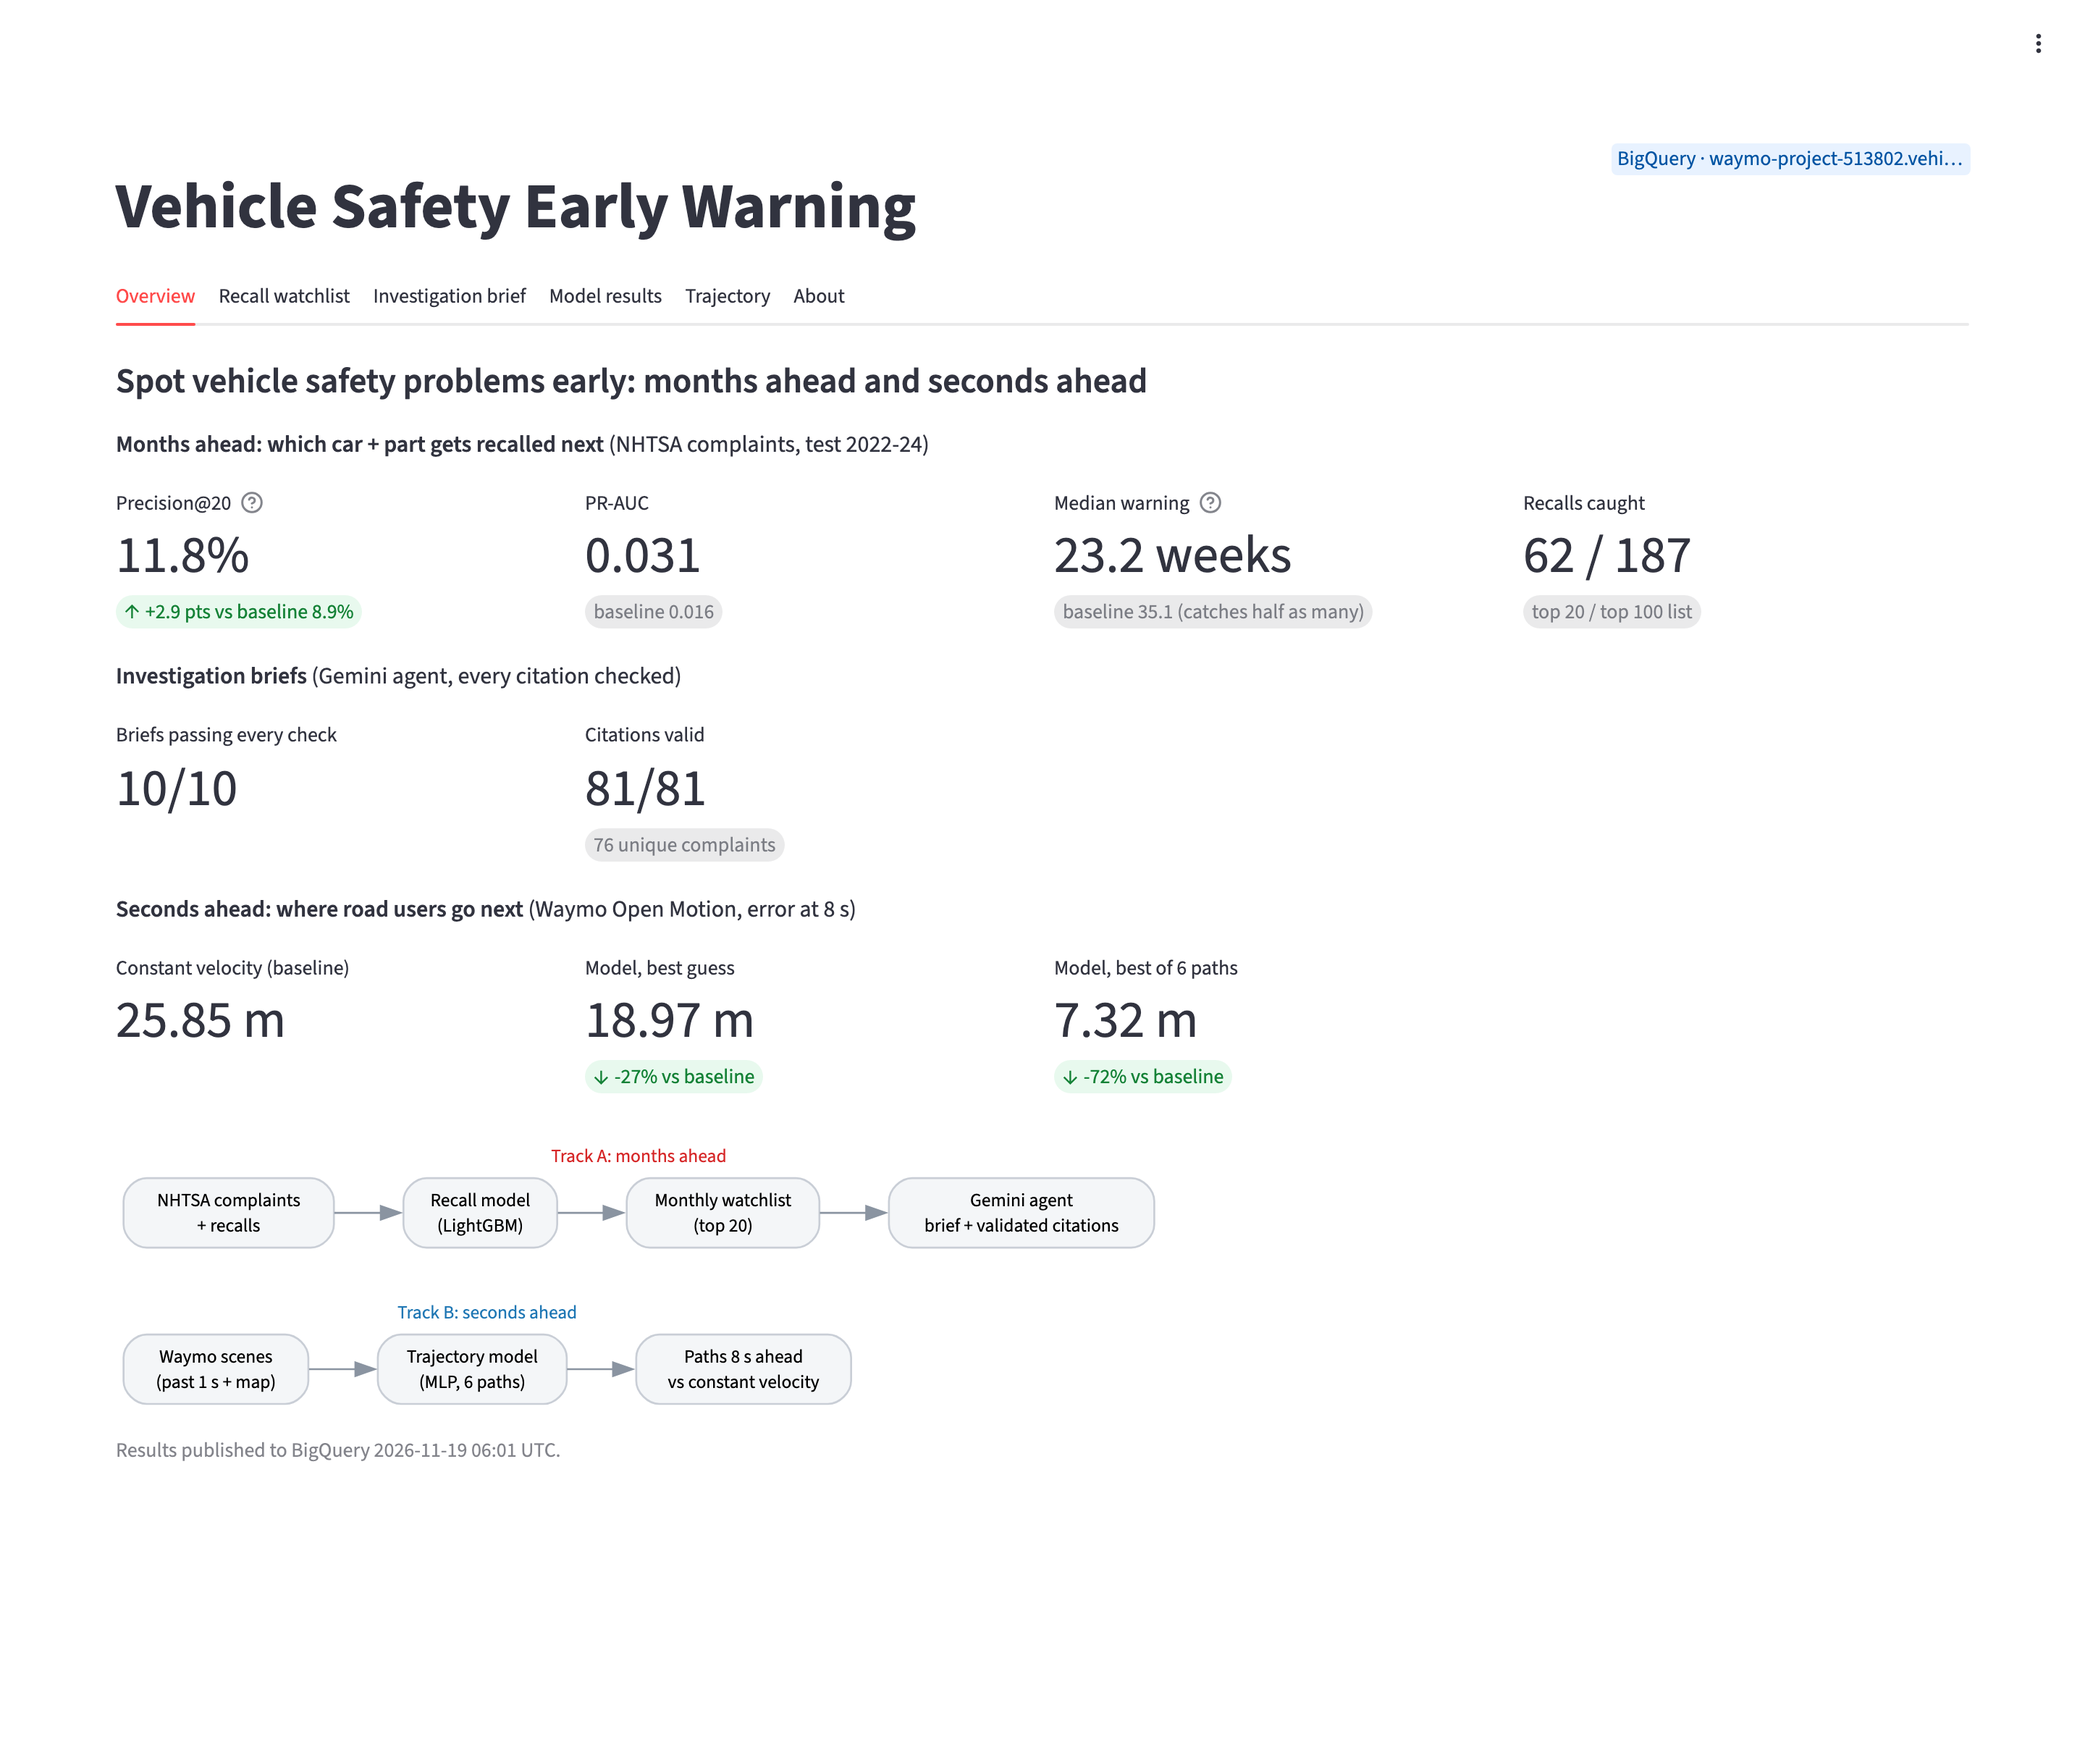
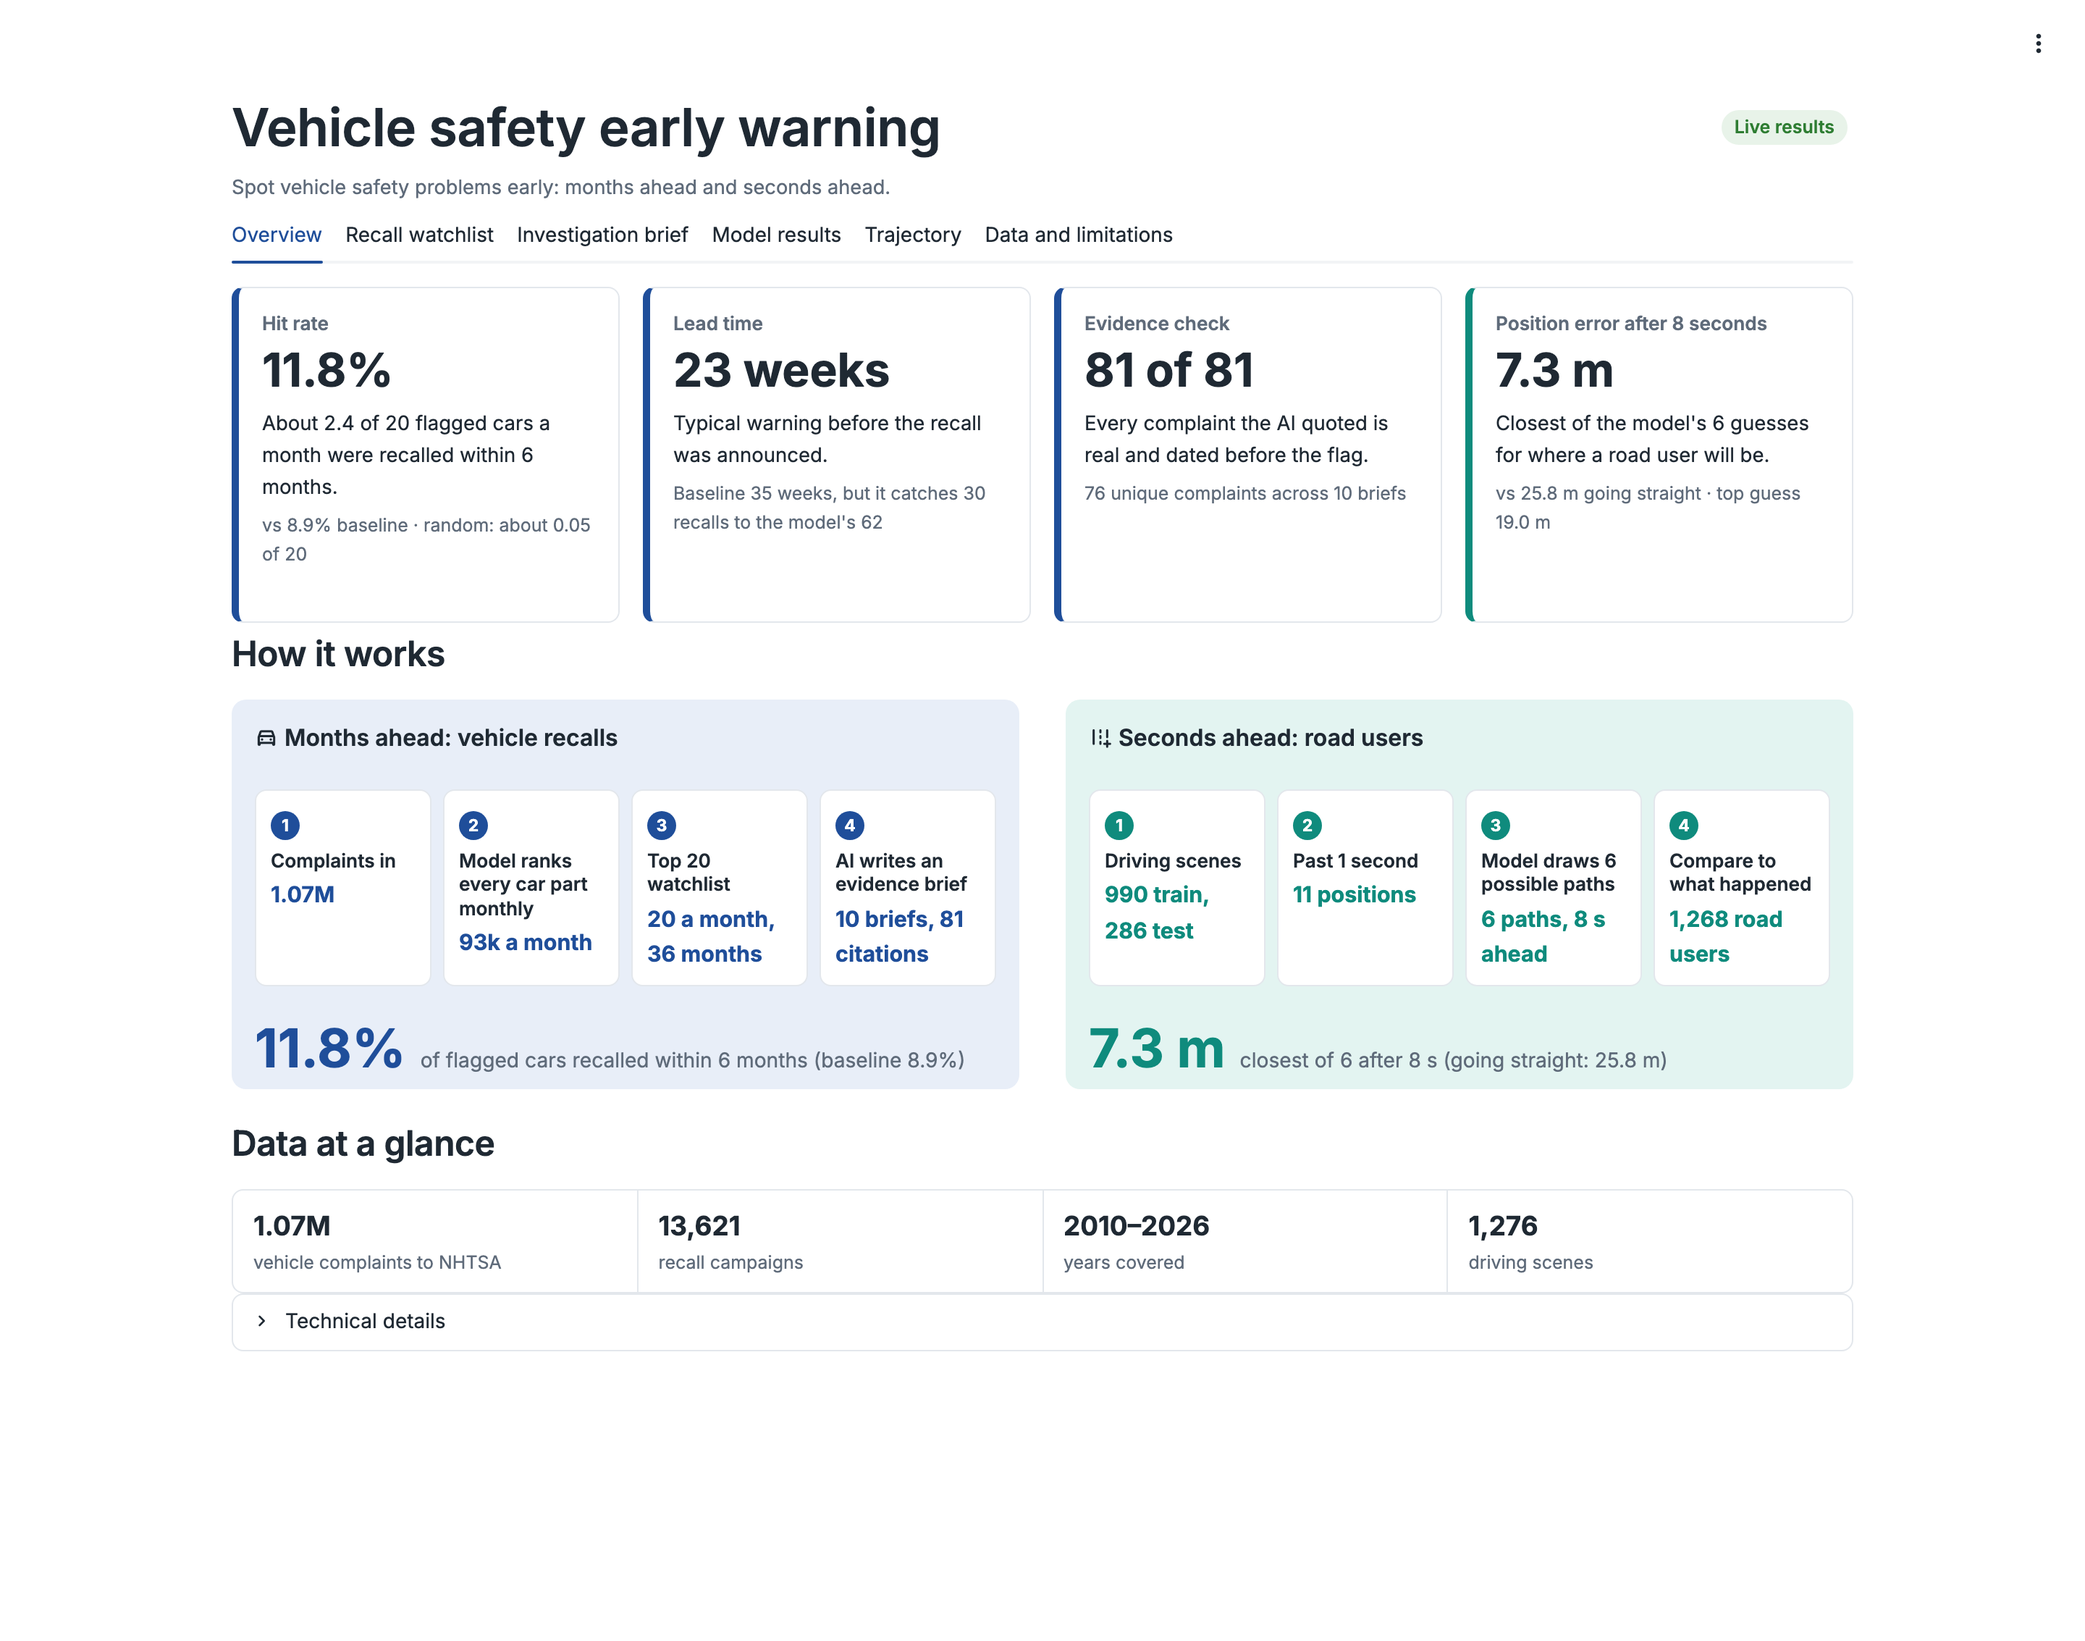
Demo screenshots (6 tabs + 2 detail views) and app README for the new layout

diff --git a/scripts/demo_screenshots.py b/scripts/demo_screenshots.py
@@ -24,7 +24,11 @@ OUT = ROOT / "reports" / "figures"
 CONTENT_HEIGHT_JS = """() => Math.max(...[...document.querySelectorAll(
   '[data-testid="stMain"], [data-testid="stAppViewContainer"], section.main, [data-testid="stMainBlockContainer"]'
 )].map(e => e.scrollHeight), document.body.scrollHeight)"""
-TABS = ["Overview", "Recall watchlist", "Investigation brief", "Model results", "Trajectory", "About"]
+TABS = ["Overview", "Recall watchlist", "Investigation brief", "Model results", "Trajectory",
+        "Data and limitations"]
+# (tab, tile key, file name): tile detail views to capture after the tabs
+DETAILS = [("Model results", "results_hit", "demo_detail_hit_rate"),
+           ("Model results", "results_fair", "demo_detail_grading")]
 
 
 def free_port() -> int:
@@ -43,6 +47,19 @@ def wait_for(url: str, timeout: float = 60) -> None:
         except OSError:
             time.sleep(0.5)
     raise RuntimeError(f"streamlit did not start at {url}")
+
+
+def shoot(page, args, file_name: str) -> None:
+    page.set_viewport_size({"width": args.width, "height": args.height})
+    page.wait_for_timeout(2500)  # charts finish drawing
+    # Streamlit scrolls an inner container, so grow the window to the content height
+    height = page.evaluate(CONTENT_HEIGHT_JS)
+    page.set_viewport_size({"width": args.width, "height": max(args.height, height + 40)})
+    page.mouse.move(2, 2)  # park the mouse so no hover tooltip is captured
+    page.wait_for_timeout(1500)
+    path = OUT / f"{file_name}.png"
+    page.screenshot(path=str(path))
+    print(f"wrote {path.relative_to(ROOT)}")
 
 
 def main() -> int:
@@ -69,16 +86,15 @@ def main() -> int:
             page.goto(url, wait_until="networkidle")
             page.get_by_role("tab", name="Overview").wait_for(timeout=120_000)  # data loaded
             for name in TABS:
-                page.set_viewport_size({"width": args.width, "height": args.height})
                 page.get_by_role("tab", name=name).click()
-                page.wait_for_timeout(2500)  # charts and images finish drawing
-                # Streamlit scrolls an inner container, so grow the window to the content height
-                height = page.evaluate(CONTENT_HEIGHT_JS)
-                page.set_viewport_size({"width": args.width, "height": max(args.height, height + 40)})
-                page.wait_for_timeout(1500)
-                path = OUT / f"demo_{name.lower().replace(' ', '_')}.png"
-                page.screenshot(path=str(path))
-                print(f"wrote {path.relative_to(ROOT)}")
+                shoot(page, args, f"demo_{name.lower().replace(' ', '_')}")
+            for tab, key, file_name in DETAILS:
+                page.get_by_role("tab", name=tab).click()
+                page.wait_for_timeout(1000)
+                page.locator(f".st-key-open_{key} button").click()
+                shoot(page, args, file_name)
+                page.locator(f".st-key-back_{key.split('_')[0]} button").click()
+                page.wait_for_timeout(1000)
             browser.close()
     finally:
         server.terminate()

diff --git a/app/README.md b/app/README.md
@@ -9,19 +9,22 @@ Reads the published results from BigQuery (`src/bq_reader.py`, one-time setup in
 [CONTRACTS.md](../CONTRACTS.md#reading-from-bigquery)). If BigQuery isn't reachable or you're not
 logged in, it falls back to local files (DuckDB read-only, `reports/`, the Waymo demo examples) and
 shows a **local data** badge. A table that is in neither place shows a notice in its tab; the rest
-still works. Everything loads once (in parallel) and is cached; **Reload data** in About refreshes.
+still works. Everything loads once (in parallel) and is cached; **Reload data** under "Technical details" refreshes.
 No Gemini calls: the briefs were written and validated beforehand. Every number comes from the data.
 
 | Tab | Shows | Data |
 | --- | --- | --- |
-| Overview | Headline cards for both tracks + two-track diagram | `v_headline_metrics`, `recall_metrics`, `agent_citations`, `waymo_results` |
-| Recall watchlist | Top 20 per month (2022-01 to 2024-12) with SHAP reasons and a brief flag | `v_watchlist_with_briefs` |
-| Investigation brief | The brief with validation badges, cited complaint IDs | `v_watchlist_with_briefs`, `agent_citations` |
-| Model results | Top 20/50/100 vs baseline, PR-AUC, warning weeks, age vs complaints, label audit + investigations, Justine's charts | `recall_metrics`, `recall_audit`, `reports/` |
-| Trajectory | One agent: lanes, past, true future, constant velocity, 6 model paths; all-agent table at 3/5/8 s | `waymo_demo_examples`, `waymo_results` |
-| About | Architecture, team, honest limitations | `recall_metrics`, `waymo_results`, `reports/recall_miss_reasons_stg.csv` |
+| Overview | 4 KPI cards (hit rate, lead time, evidence check, position error), how both tracks work, data at a glance | `v_headline_metrics`, `recall_metrics`, `recall_audit`, `agent_citations`, `waymo_results`, `waymo_demo_examples`, `app/facts.json` |
+| Recall watchlist | Top 20 per month with risk score, why flagged, brief ready; select a row and "View brief" | `v_watchlist_with_briefs` |
+| Investigation brief | Header card with status chips, brief sections as cards, complaint IDs as chips | `v_watchlist_with_briefs`, `agent_citations` |
+| Model results | 6 tiles (hit rate, coverage, lead time, what drives the score, grading, more signals), each with a detail view | `recall_metrics`, `recall_audit`, `reports/recall_overlap_stg.csv`, `reports/recall_miss_reasons_stg.csv`, `reports/recall_results_stg.md`, `reports/label_audit.md` |
+| Trajectory | Road user pills, example picker, 3 KPI cards, the path plot, 3 tiles with detail views | `waymo_demo_examples`, `waymo_results` |
+| Data and limitations | Data sources, honest limitations, how we kept it honest | `app/facts.json`, `recall_metrics`, `waymo_results`, `reports/` |
 
-Files: `streamlit_app.py` (tabs), `data.py` (BigQuery + local fallback), `charts.py` (Altair).
+Files: `streamlit_app.py` (tabs), `data.py` (BigQuery + local fallback), `theme.py` (palette, chart
+template, styles), `components.py` (KPI cards, tiles), `charts.py` (Plotly), `reports.py` (committed
+report files), `build_facts.py` (writes `facts.json`, the dataset counts that aren't in BigQuery:
+`python -m app.build_facts`).
 Tests: `tests/test_demo.py` (AppTest, BigQuery faked). Slide screenshots:
 `python scripts/demo_screenshots.py` (needs `pip install playwright && python -m playwright install chromium`)
 writes `reports/figures/demo_*.png`.
